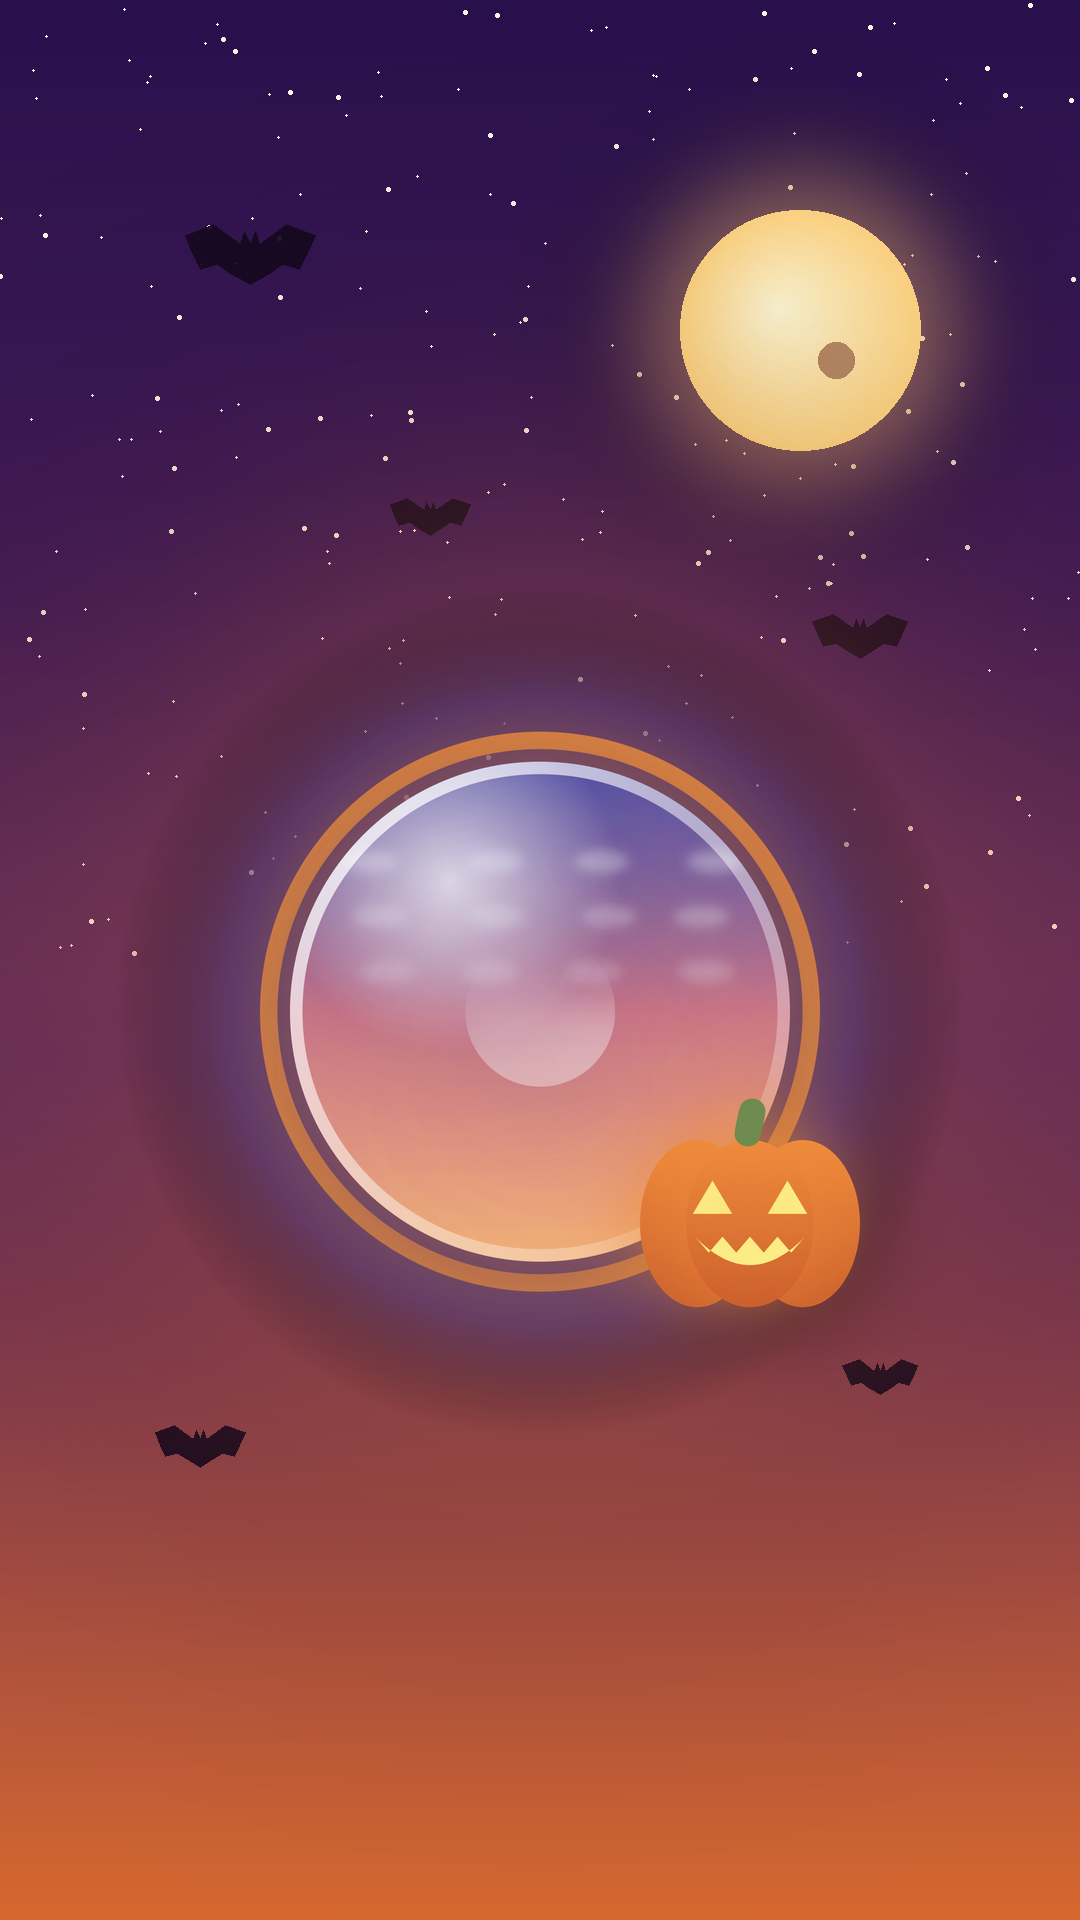
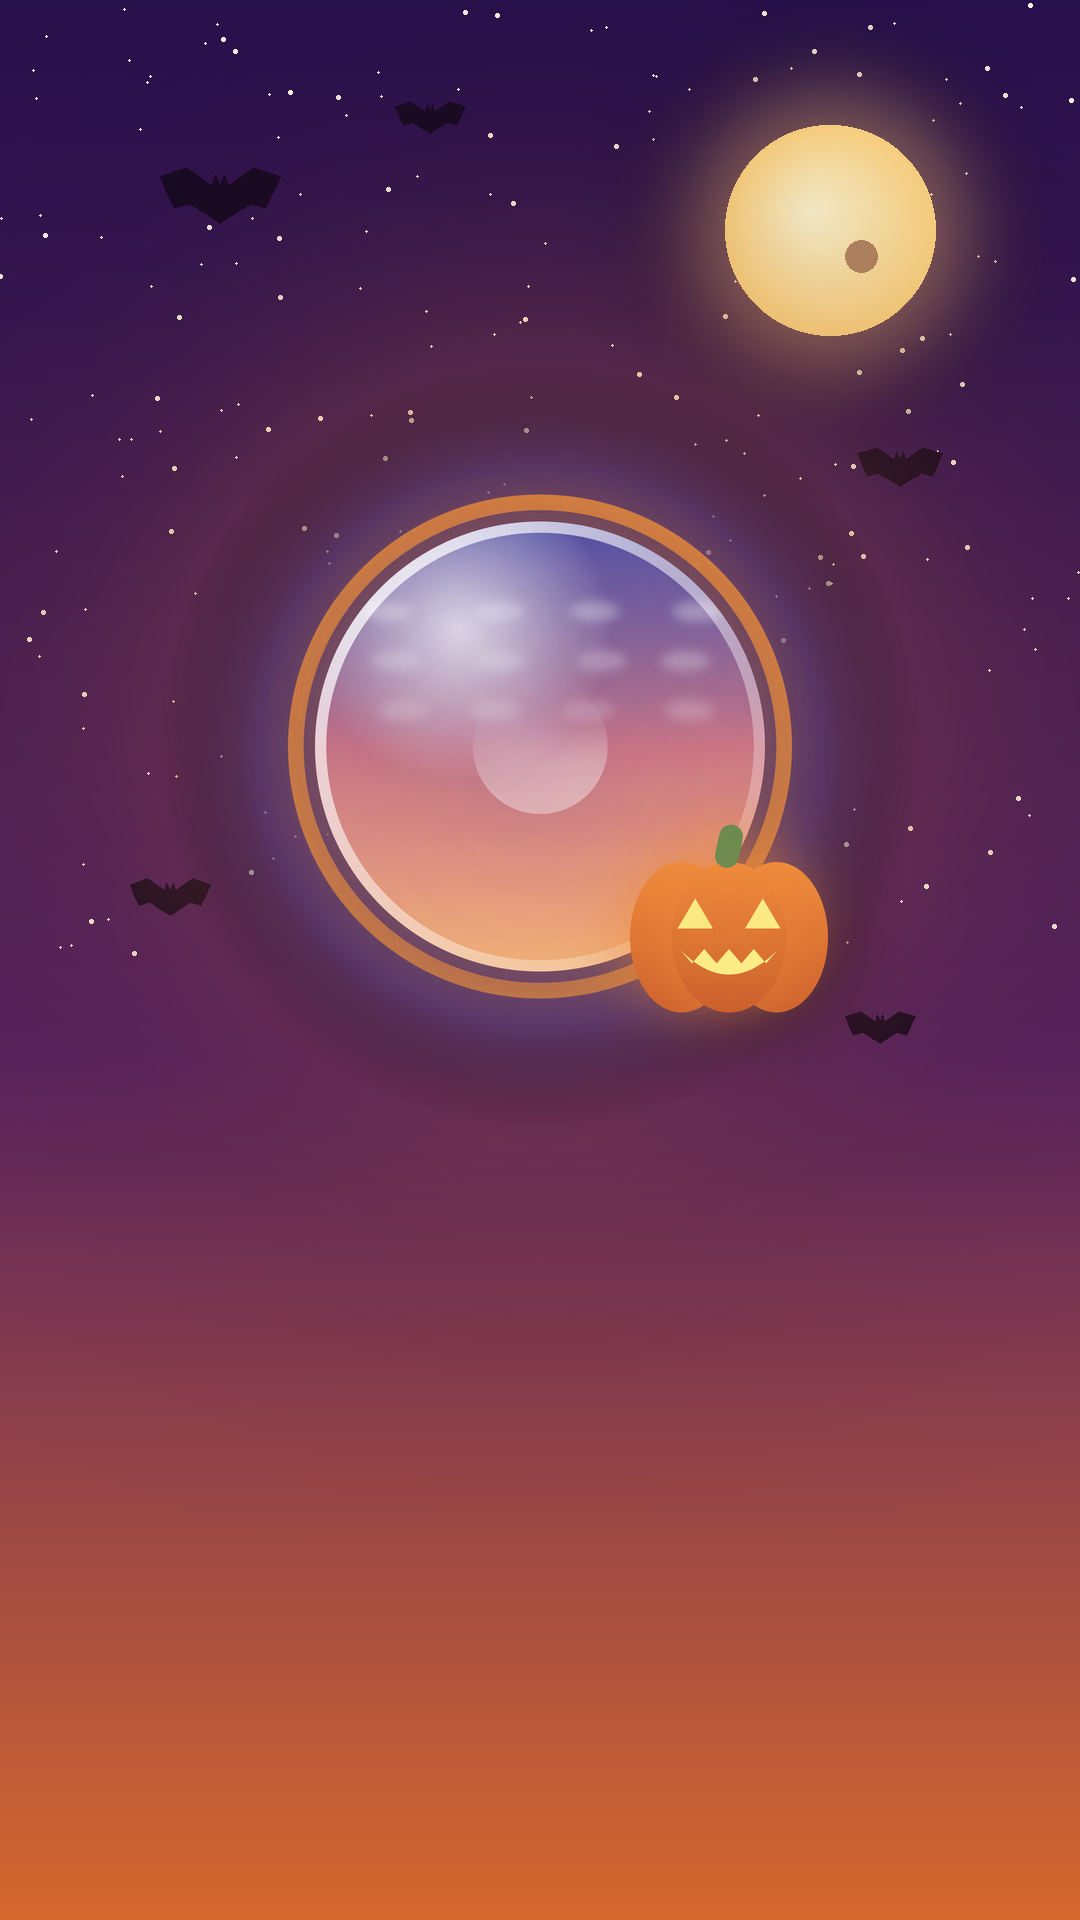
docs: record October growth actions (promo text, Halloween in-app event)

diff --git a/scripts/compose_halloween_event_art.py b/scripts/compose_halloween_event_art.py
@@ -126,10 +126,11 @@ def main() -> None:
 
     detail = compose(
         (1080, 1920),
-        load_orb(args.orb, 1000),
-        orb_center=(540, 960),
-        moon=((800, 330), 120),
-        bats=[(250, 260, 130), (430, 520, 80), (860, 640, 95), (200, 1450, 90), (880, 1380, 75)],
+        # 詳細ページは下側に App Store の文字が重なるため、玉を上半分に置く。
+        load_orb(args.orb, 900),
+        orb_center=(540, 700),
+        moon=((830, 230), 105),
+        bats=[(220, 200, 120), (430, 120, 70), (900, 470, 85), (170, 900, 80), (880, 1030, 70)],
         stars_seed=11,
     )
     detail.save(args.output / "event-detail-1080x1920.png")

diff --git a/AppStore/growth-2026-10.md b/AppStore/growth-2026-10.md
@@ -1,0 +1,37 @@
+# ダウンロードを増やすための取り組み（2026年10月）
+
+## 現状（App Store Connect アナリティクス、2026-09-02〜10-01 の30日間、2026-10-03 に確認）
+
+| 指標 | 値 |
+|---|---|
+| インプレッション数 | 8,160 |
+| プロダクトページ閲覧数 | 366 |
+| 初回ダウンロード数 | 44 |
+| 再ダウンロード数 | 10 |
+| コンバージョン率 | 0.8% |
+| アップデート数 | 205 |
+
+- プロダクトページ閲覧の流入元（ユニークデバイス、日次平均）: App Store の検索 3、App Store の閲覧 1、参照元ウェブ・参照元アプリは 0。
+- 読み取れること:
+  - 検索結果には出ているが、表示された人のうちページを開くのは約4.5%（366 / 8,160）。検索結果に出る情報（アイコン・名前・サブタイトル・最初の3枚のスクリーンショット）の訴求が弱い。
+  - ページを開いた人のうちダウンロードするのは約12%（44 / 366）。ページの訴求と評価の少なさ（評価1件）も課題。
+  - サイトや共有からの流入はほぼない。
+
+## 2026-10-03 に実施したこと（ユーザー承認済み）
+
+1. **プロモーション用テキスト（日英）** を 1.8.4 のストアページに設定した（審査なしで反映）。以前は空欄だった。11月1日以降に空欄へ戻すか、別の文面に替える。
+   - 日本語: 10月31日まで、ハロウィン仕様の空玉を集めよう。月とこうもりが浮かぶ空で、今日の空玉にジャックオランタンが付きます。
+   - English: Through October 31, collect Halloween sky orbs: a moon and bats fill your sky, and today's orb gets a jack-o'-lantern.
+2. **アプリ内イベント「ハロウィンの空玉」/「Halloween Sky Orbs」** を作成し、審査に提出した（状態: 審査待ち）。
+   - イベント ID: 6818754380、参照名: Halloween 2026 Sky Orbs
+   - バッジ: スペシャルイベント、目的: 新規ユーザを獲得する、優先度: 通常、アプリ内購入: 必須ではない、配信: すべての国・地域
+   - 期間: 2026-10-04 0:00 〜 2026-10-31 23:30 JST（公開開始も 10-04 0:00）
+   - ディープリンク: `soradama://halloween`（アプリはこの URL を特別扱いせず、通常どおり天気画面を開く。コレクションを開く `soradama://collection` は、初回の利用者には空のコレクションが出るため使わなかった）
+   - 画像と文面: `AppStore/InAppEvents/halloween-2026/`
+
+## 次に取り組む候補（未着手・要相談）
+
+1. **評価を増やす**: 評価依頼は「3日連続の通常の記録」かつ「コレクションを3秒以上見て閉じた後」に限られ、ほとんど出ていない可能性が高い。条件の見直し（例: 2日目以降、共有ボタンを押した後など）を次の版で検討する。
+2. **検索結果での見え方**: 最初の3枚のスクリーンショットの見出しと構図、サブタイトルを見直す（スクリーンショットの差し替えには新しい版の提出が必要）。プロダクトページの最適化（A/B テスト）も使える。
+3. **キーワード**: 日本語のキーワード欄は残り3文字。検索流入が中心なので、ずかん・記録系の語と天気の語の配分を見直す。
+4. **イベントの成果の確認**: アナリティクスの「アプリ内イベント」で、表示回数・ダウンロード数を10月中旬に確認する。

diff --git a/作業記録-20260925-ハロウィンと継続利用.md b/作業記録-20260925-ハロウィンと継続利用.md
@@ -194,3 +194,12 @@ A Halloween touch for October, and easier sharing
 - Simulator のアプリデータは初期化されていた（自分の空が東京の既定値に戻り、位置情報の許可を求める画面が出た）。「許可しない」を選んだ。
 - ハロウィン表示（紫とオレンジの空、月、こうもり、今日の空玉のジャックオランタンと光の輪、カードの配色、「ハロウィンの空玉・10月31日まで」）が、実際の日付で表示されることを確認した。証跡: `QA/20261003-realdate/ja-main-2026-10-03-realdate.png`
 - これは Simulator での確認。App Store から入れた 1.8.4 を実機で見る確認は、まだしていない。11月1日に通常の表示へ戻ることの、実際の日付での確認も残っている。
+
+## ダウンロードを増やす取り組み（2026-10-03）
+
+ユーザーの依頼「ダウンロード数を増やすために取り掛かれることは取り掛かって」に対し、App Store Connect で次の3つの承認を得て実施した。詳細と数値は `AppStore/growth-2026-10.md`。
+- アナリティクスの確認（読み取りのみ）: 30日間でインプレッション 8,160、ページ閲覧 366、初回ダウンロード 44、コンバージョン率 0.8%。流入はほぼ App Store の検索。
+- プロモーション用テキストを日英で設定した（審査なし、即時反映）。
+- アプリ内イベント「ハロウィンの空玉」（ID 6818754380）を日英で作成し、審査に提出した（審査待ち）。期間は 10/4 0:00〜10/31 23:30 JST。
+- イベント画像は、アプリと同じ描画で空玉を書き出すテスト（`EventArtRenderTests`、環境変数を指定したときだけ動く）と、合成スクリプト（`scripts/compose_halloween_event_art.py`）で作った。最初は詳細画面の画面写真から切り抜いたが、日付の文字が写り込んだため作り直した。ImageRenderer ではジャックオランタンの影が段状になったので、画面と同じ描画方法（drawHierarchy）に切り替えた。
+- 途中の操作ミス: 英語版を追加したとき、入力欄に日本語の文面が最初から入っていたため、英語が日本語の途中に挿入された。保存前に全選択して入れ直し、日本語版が変わっていないことも確認した。
